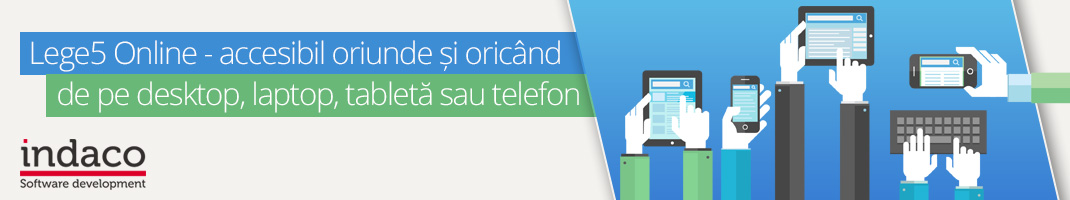
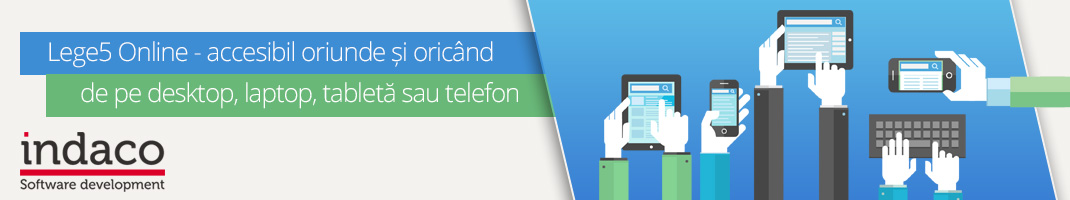
increased slider duration. updated sliders.

diff --git a/js/main.js b/js/main.js
@@ -8,7 +8,7 @@ $('.tooltip-social').tooltip({
 $(document).ready(function($) {
 	$('#main-slider').flexslider({
 		animation: "fade",
-		slideshowSpeed: 3500,
+		slideshowSpeed: 4500,
 		controlNav: false,
 		directionNav: false
 	});
